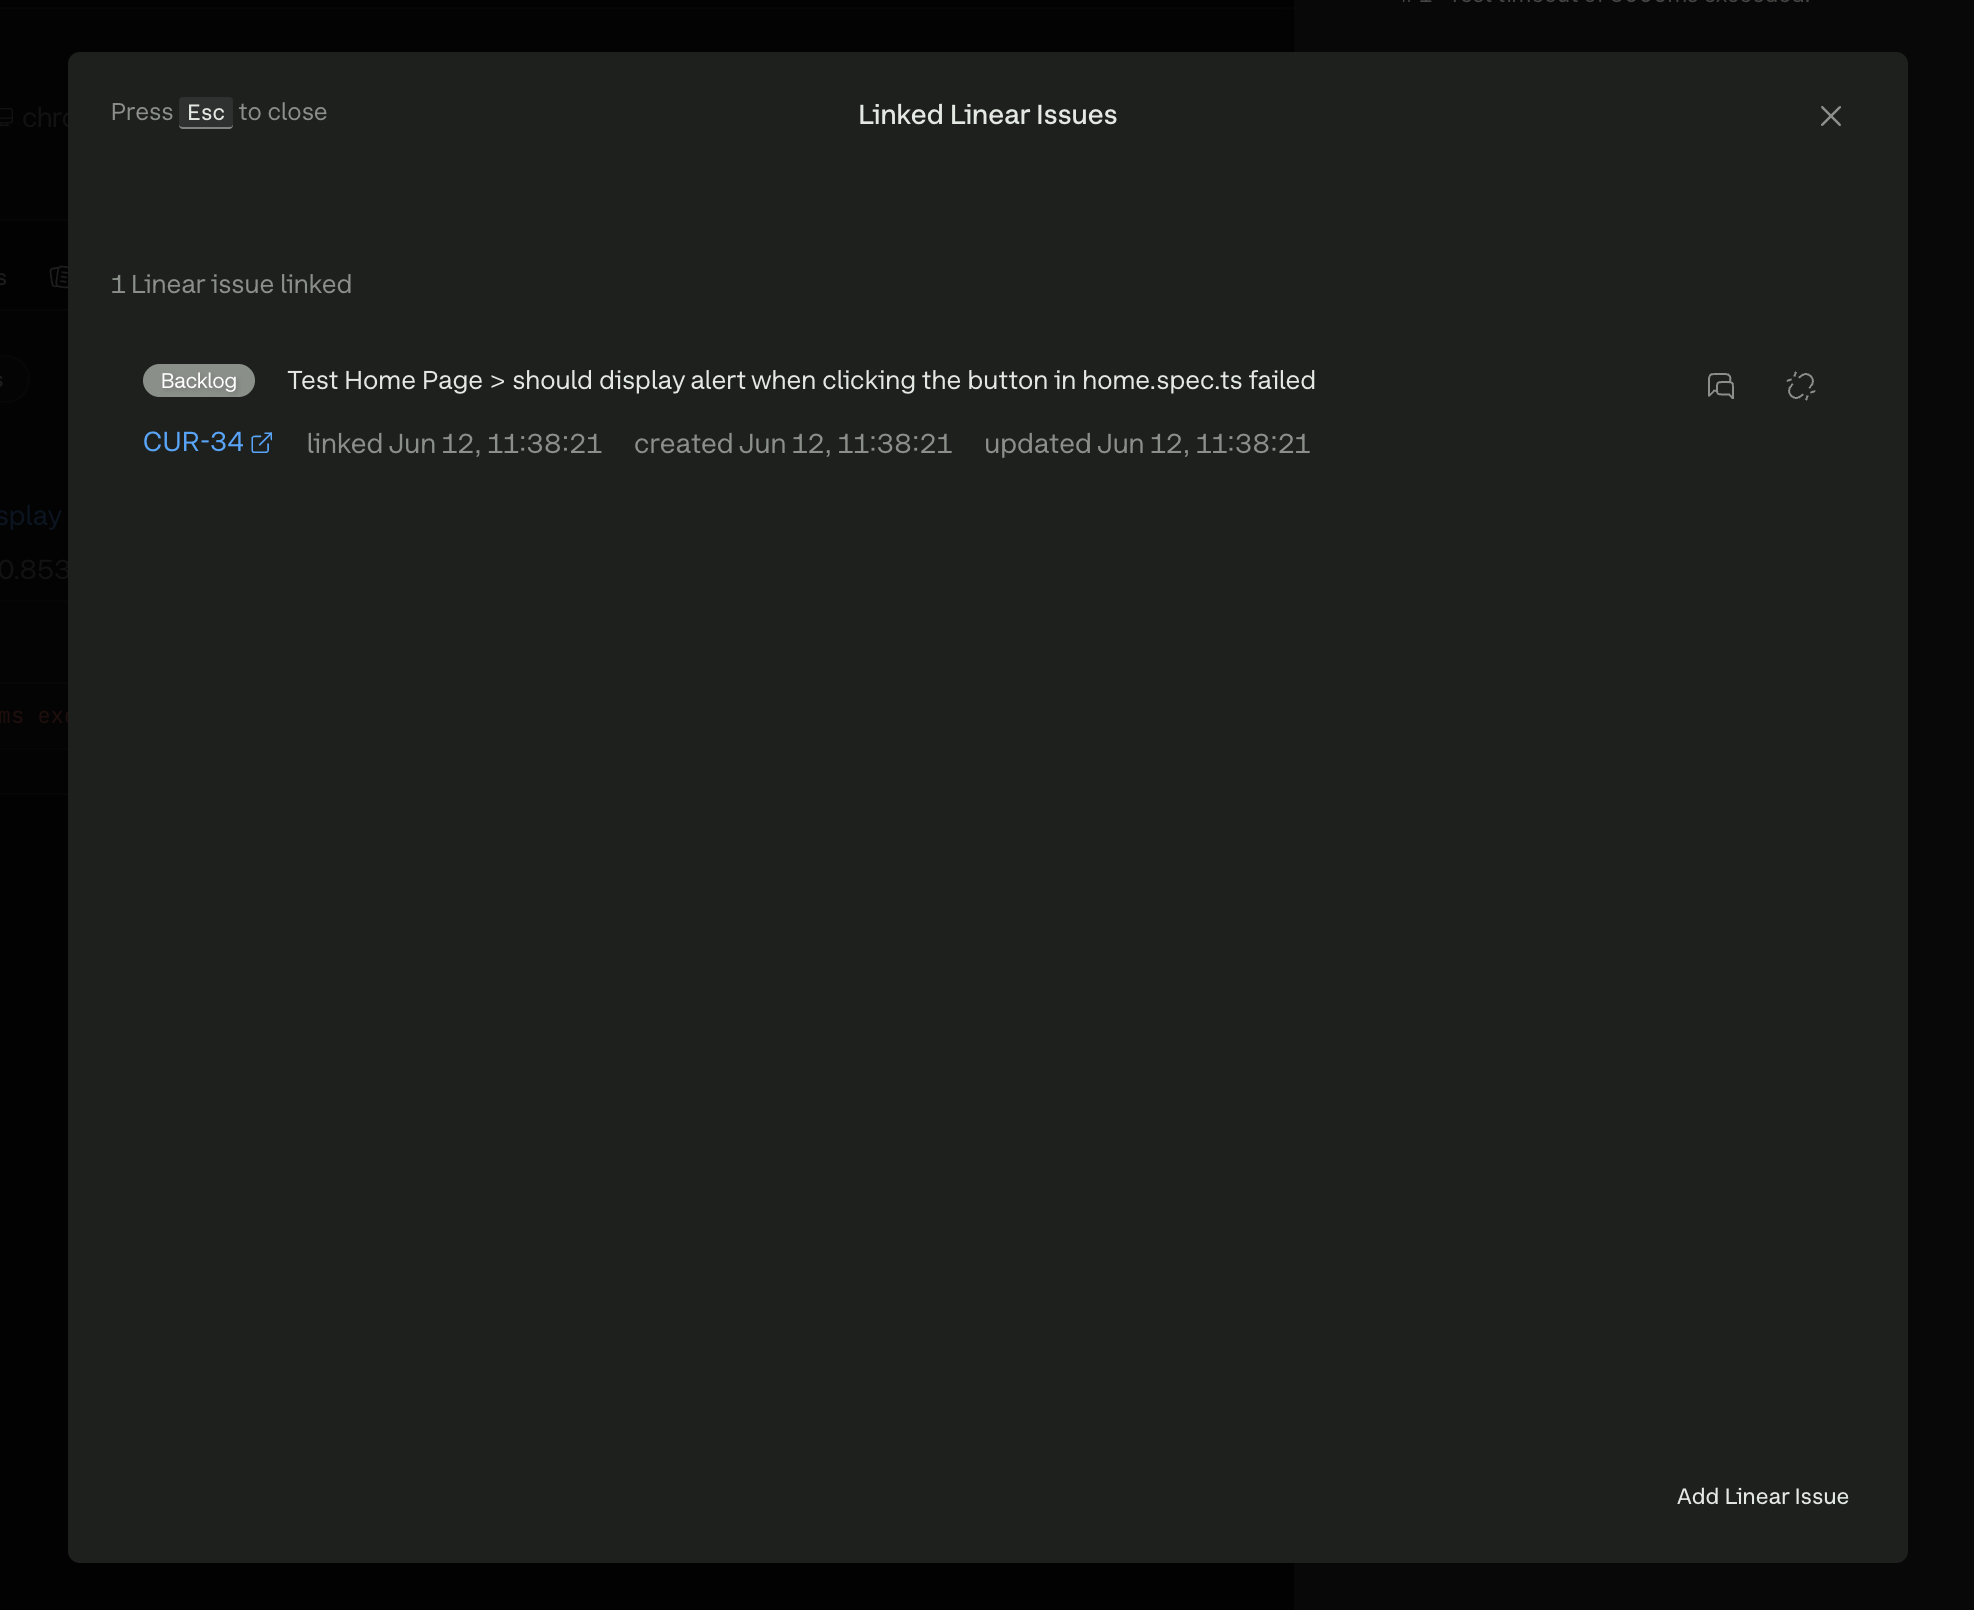
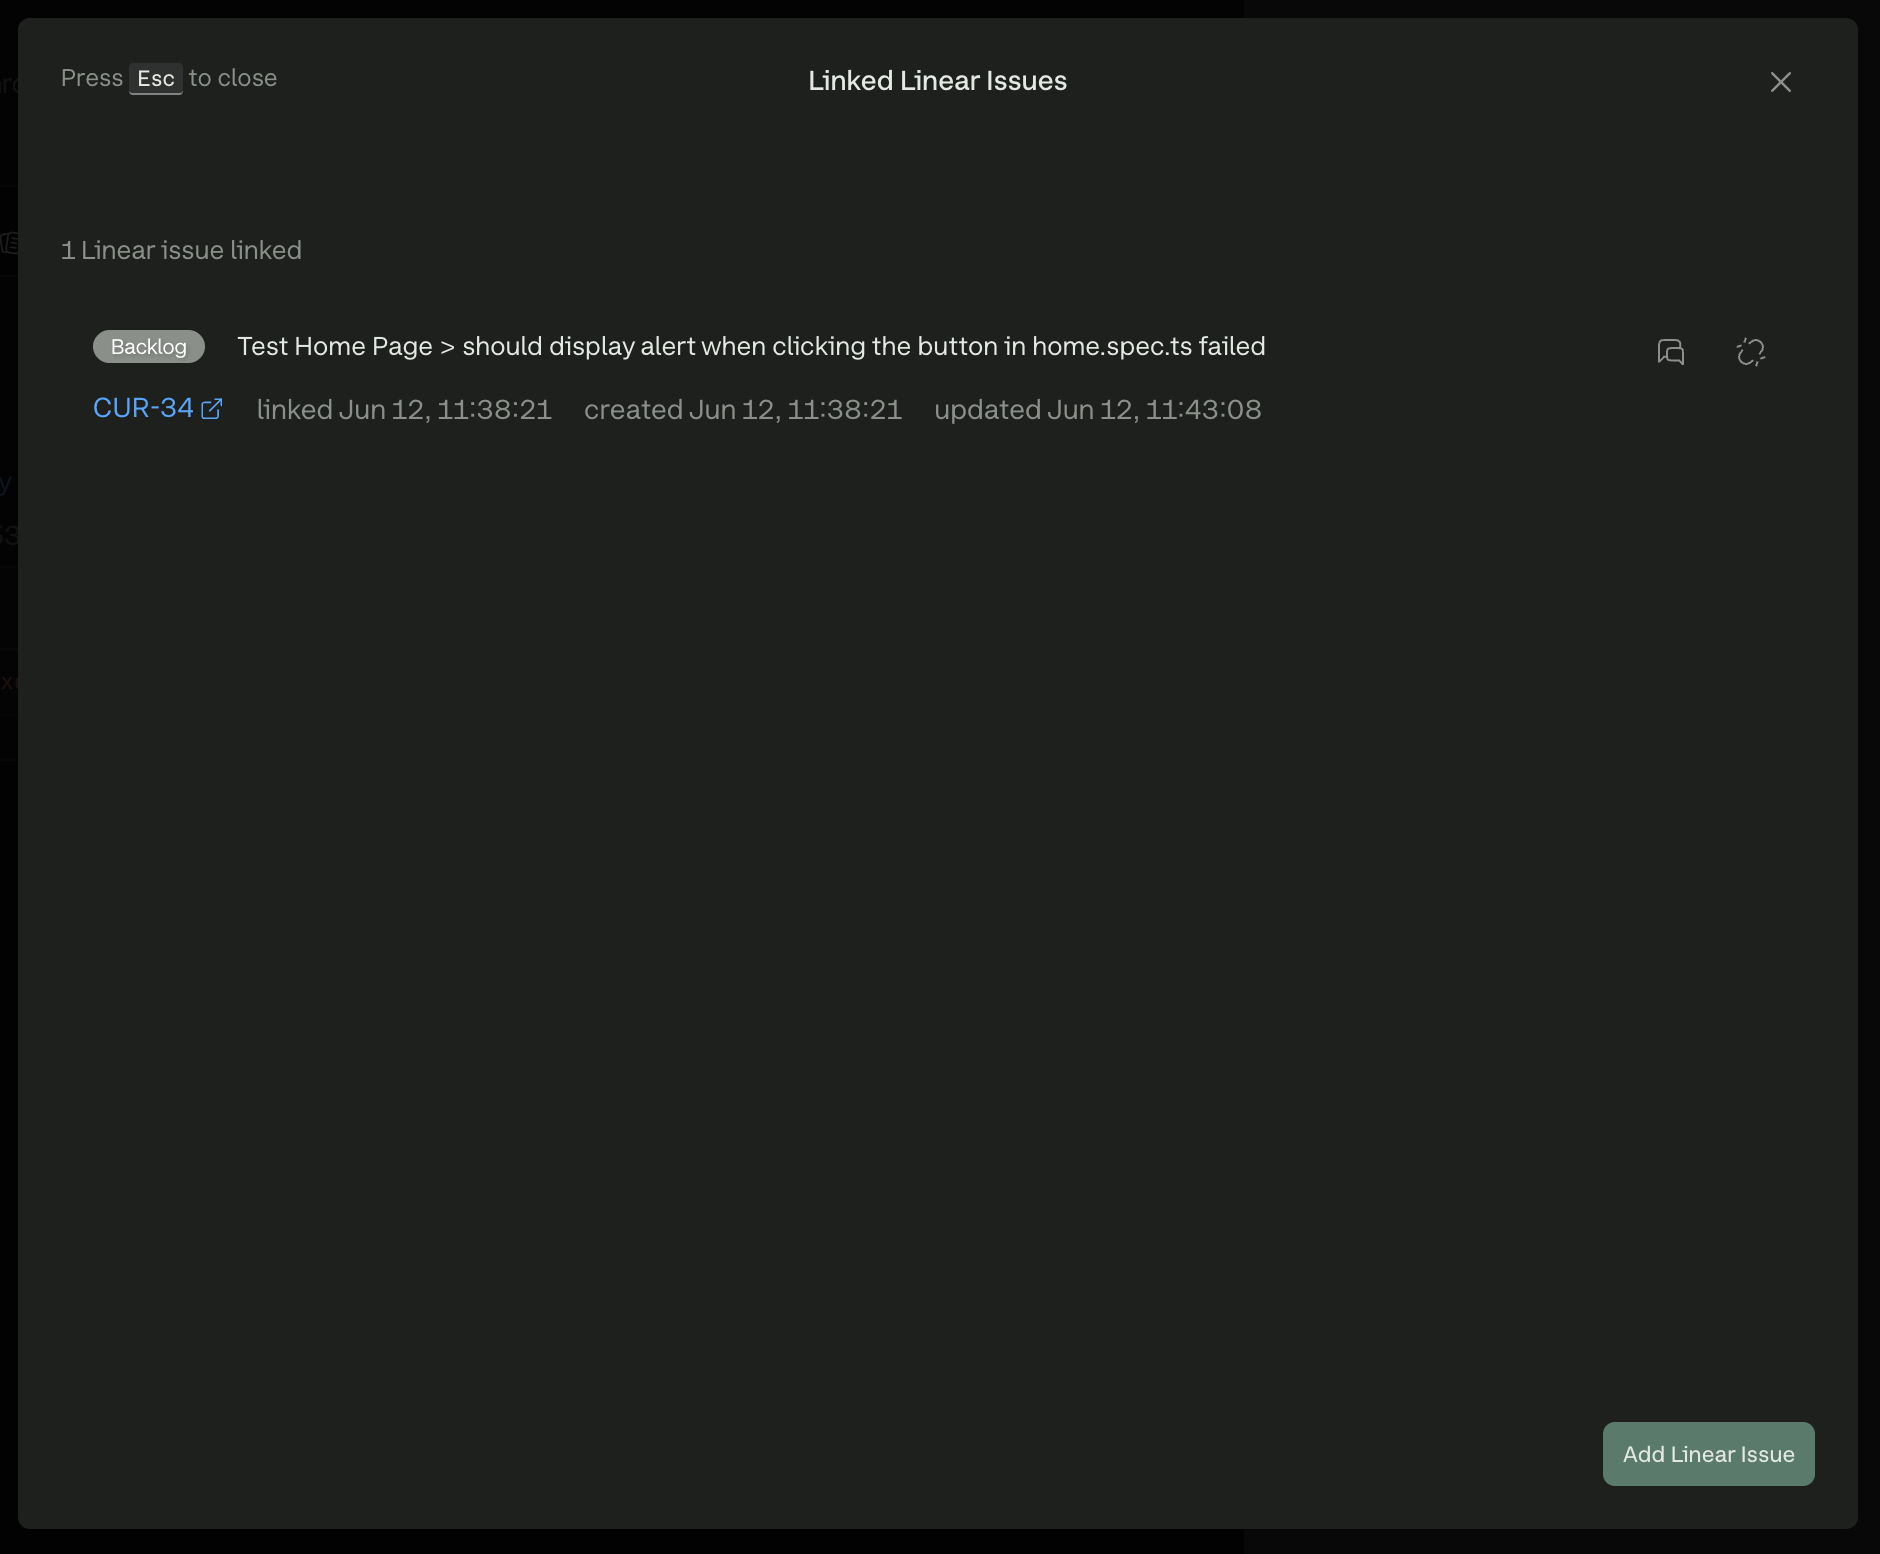
chore: more tweaks + screenshots

Changed region(s): [[0.0, 0.0, 0.6787, 0.9884], [0.833, 0.8958, 0.9872, 0.9575], [0.8638, 0.2162, 0.8947, 0.2471]]

diff --git a/resources/integrations/linear/usage.md b/resources/integrations/linear/usage.md
@@ -13,9 +13,9 @@ With the integration enabled for your project, open any test execution in Curren
 
 The icon appears only when Linear is enabled for the project. A badge shows how many issues are already associated with the test.
 
-<figure><img src="../../../.gitbook/assets/linear-linked-issues-badge.png" alt="" width="400"><figcaption><p>A test has linked Linear issues</p></figcaption></figure>
+<figure><img src="../../../.gitbook/assets/linear-linked-issues-badge.png" alt="A test has linked Linear issues" width="400"><figcaption><p>A test has linked Linear issues</p></figcaption></figure>
 
-<figure><img src="../../../.gitbook/assets/linear-no-issues.png" alt="" width="400"><figcaption><p>A test has no existing Linear issues</p></figcaption></figure>
+<figure><img src="../../../.gitbook/assets/linear-no-issues.png" alt="A test has no existing Linear issues" width="400"><figcaption><p>A test has no existing Linear issues</p></figcaption></figure>
 
 From the panel you can list linked issues, create a new one, or search for an existing issue to link.
 
@@ -45,7 +45,7 @@ Example of a newly created issue:
 
 <figure><img src="../../../.gitbook/assets/linear-create-issue.png" alt="Example of New Linear Issue creation form"><figcaption><p>Example of New Linear Issue creation form</p></figcaption></figure>
 
-<figure><img src="../../../.gitbook/assets/linear-created-issue.png" alt="Example of a new Linear issue created from Currents"><figcaption><p>Example of a new Linear issue created from Currents</p></figcaption></figure>
+<figure><img src="../../../.gitbook/assets/linear-created-issue.png" alt="Example of a new Linear issue created from Currents" width="400"><figcaption><p>Example of a new Linear issue created from Currents</p></figcaption></figure>
 
 ## Link an existing issue
 
@@ -71,7 +71,7 @@ Steps:
 
 Example of commenting on an existing issue:
 
-<figure><img src="../../../.gitbook/assets/linear-link-form-placeholder.png" alt="Example of linking test failure to an existing Linear issue"><figcaption><p>Example of linking test failure to an existing Linear issue</p></figcaption></figure>
+<figure><img src="../../../.gitbook/assets/linear-link-form.png" alt="Example of linking test failure to an existing Linear issue"><figcaption><p>Example of linking test failure to an existing Linear issue</p></figcaption></figure>
 
 <figure><img src="../../../.gitbook/assets/linear-link-comment.png" alt="Example of a Linear issue comment originating from Currents"><figcaption><p>Example of a Linear issue comment originating from Currents</p></figcaption></figure>
 
@@ -84,7 +84,7 @@ The issues panel lists every issue associated with the current test:
 * Click ⛓️💥 to remove the association in Currents
 * Click **Add Linear Issue** to create or link another issue
 
-<figure><img src="../../../.gitbook/assets/linear-issues-list.png" alt=""><figcaption><p>Listing Linear issues related to the test</p></figcaption></figure>
+<figure><img src="../../../.gitbook/assets/linear-issues-list.png" alt="Listing Linear issues related to the test"><figcaption><p>Listing Linear issues related to the test</p></figcaption></figure>
 
 ### Notes
 

diff --git a/resources/integrations/linear/setup.md b/resources/integrations/linear/setup.md
@@ -28,7 +28,7 @@ Multiple Currents projects can share the same workspace connection.
 4. Approve the OAuth request in Linear
 5. Return to Currents and confirm the workspace appears as connected
 
-<figure><img src="../../../.gitbook/assets/linear-connect.png" alt="Connect Linear App button"><figcaption><p>Starting the OAuth connection</p></figcaption></figure>
+<figure><img src="../../../.gitbook/assets/linear-connect.png" alt="Connect Linear App button" width="400"><figcaption><p>Starting the OAuth connection</p></figcaption></figure>
 
 {% hint style="info" %}
 Only organization admins can connect, disconnect, or change settings. Other members can view connection status.